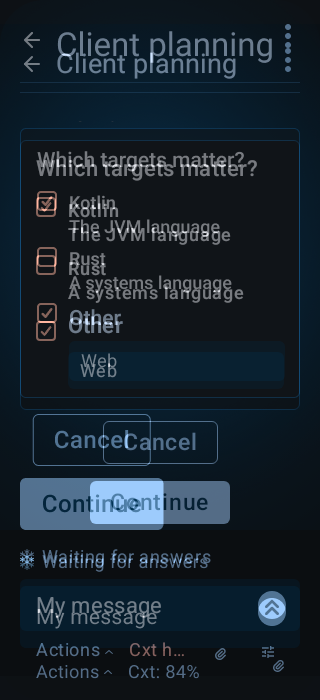
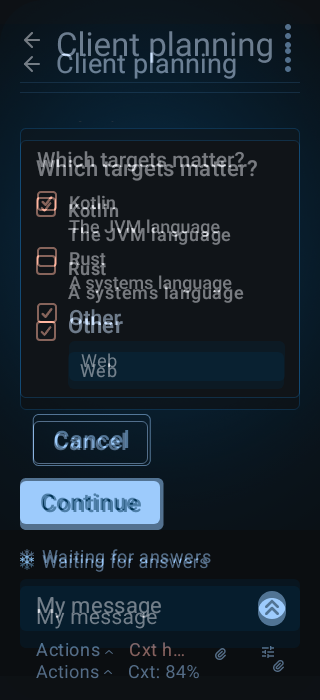
fix(questions): defer the actions reveal past layout; re-capture the question frames (#1484)

Changed region(s): [[0.0625, 0.6, 0.7188, 0.75]]

diff --git a/app/src/main/java/de/pyryco/mobile/ui/conversations/thread/QuestionBatchModal.kt b/app/src/main/java/de/pyryco/mobile/ui/conversations/thread/QuestionBatchModal.kt
@@ -42,6 +42,7 @@ import androidx.compose.runtime.mutableStateOf
 import androidx.compose.runtime.remember
 import androidx.compose.runtime.rememberCoroutineScope
 import androidx.compose.runtime.setValue
+import androidx.compose.runtime.withFrameNanos
 import androidx.compose.ui.Alignment
 import androidx.compose.ui.Modifier
 import androidx.compose.ui.draw.alpha
@@ -312,8 +313,11 @@ internal fun QuestionBlock(
                             val scope = rememberCoroutineScope()
                             var focused by remember { mutableStateOf(false) }
                             val imeBottom = WindowInsets.ime.getBottom(LocalDensity.current)
-                            // The last run sees the settled inset, so every run ends at the same position.
+                            // The last run sees the settled inset, so every run ends at the same position. The effect can
+                            // start while the lazy item is composed inside the list's measure, where a scroll may not run,
+                            // so the scroll waits for the next frame.
                             val reveal: suspend () -> Unit = {
+                                withFrameNanos {}
                                 revealActions()
                                 requester.bringIntoView()
                             }

diff --git a/app/src/androidTest/assets/design-1220/prompts/index.md b/app/src/androidTest/assets/design-1220/prompts/index.md
@@ -10,7 +10,12 @@
   `requireRealSystemBars=true`, density 1.0, fixed dark theme, real 24 px status and navigation bars. Each `.txt`
   records the measured values.
 - **Result:** `prompts-results.xml`, the whole class in one run after the second rework: 6 executed, 0 failures.
-  Every capture here comes from that run.
+  Every capture here comes from that run, except the four `question-*` captures.
+- **#1484 re-capture:** `feature/1484` (merge base `ca50716f`) changed the question actions. The whole class ran
+  again in one run on the same device and arguments: 6 executed, 0 failed, 0 skipped, now in `prompts-results.xml`.
+  The `question-unanswered`, `question-answered`, `question-keyboard` and `question-compact` captures and their
+  comparisons come from that run; `question-answered.png` came out byte-identical. The other captures are kept
+  from the #1433 run.
 
 **How these captures differ from onboarding's.** Both prompts set `FLAG_SECURE` on the activity window while
 they show, which blacks out the harness's `UiAutomation` screenshot. The class draws the decor view into a
@@ -51,13 +56,13 @@ scaling or the app matches the frames.
 | Padding | match: 20 px gutters, 16 px card padding |
 | Spacing | mismatch in the Other row: Figma puts the field 28 px below the "Other" label's top and the radio top-aligned with the label; the app's field sits about 6 px lower and its radio is centred in a 48 dp row, about 10 px below the label. Kotlin to Rust rows match at 56 px; actions 12 px below the card |
 | Typography | mismatch: footer "Cxt high: 84%". Question, option label and description, header and actions match |
-| Colour | mismatch: disabled Continue is near-black with dim text, where Figma fills it blue-grey; footer label in the warning colour |
+| Colour | mismatch: footer label in the warning colour. The disabled Continue matches since #1484: the primary fill and on-primary label at 38 % opacity, as `636:3535` |
 | Borders | match: primary-container card border, outlined Cancel |
 | Radii | match |
 | Icon paths | mismatch: footer tune icon. Header snowflake glyphs, radios and checkboxes match |
 | Component state | match: nothing selected, Continue disabled, "Waiting for answers" |
 
-- **Routed:** #1484 (disabled Continue), #1501 (Other row spacing and radio alignment), #1485 (footer)
+- **Routed:** #1501 (Other row spacing and radio alignment), #1485 (footer). Disabled Continue fixed by #1484
 
 ### Questions · Answers selected — `636:3540`
 
@@ -94,9 +99,9 @@ scaling or the app matches the frames.
 
 | Aspect | Verdict |
 |---|---|
-| Geometry | mismatch: the focused Other field is in view, but Cancel and Continue are half under the composer footer; Figma shows both above "Waiting for answers". The focus scroll offset varies between runs: the first and this run leave them half under, the first rework run hid them fully. Every run covers them |
+| Geometry | match since #1484: at the focus scroll position the focused Other field and both Cancel and Continue are fully in view, the actions' bottom at the stream's bottom edge above "Waiting for answers", as Figma. The focus scroll places the actions first, so the position no longer depends on the IME animation; the test asserts the field and both actions inside the message region |
 | Padding | match |
-| Spacing | mismatch: the actions have no gap above the footer (see Geometry); the Other row as Unanswered |
+| Spacing | mismatch: the Other row as Unanswered. The actions sit 4 px above the stream's edge, from the batch's item gutter |
 | Typography | mismatch: footer "Cxt high: 84%" |
 | Colour | mismatch: footer warning colour |
 | Borders | match |
@@ -104,9 +109,9 @@ scaling or the app matches the frames.
 | Icon paths | mismatch: footer tune icon |
 | Component state | match: Other focused with "Web" (the caret blinks and is in its off phase in this capture); the draft is kept |
 
-- **Clipping and reach:** Cancel and Continue are covered by the footer at the focus scroll position. Both
-  scroll into view and display with the keyboard still open (`reachable` in the test). No control is unreachable.
-- **Routed:** #1484 (actions under the footer), #1501 (Other row), #1485 (footer)
+- **Clipping and reach:** nothing is covered at the focus scroll position (`assertAboveComposer` in the test,
+  without a scroll of its own). Both actions also scroll into view with the keyboard still open (`reachable`).
+- **Routed:** #1501 (Other row), #1485 (footer). Actions under the footer fixed by #1484
 
 ### Questions · Compact text at 150% — `636:4066`
 
@@ -118,7 +123,7 @@ scaling or the app matches the frames.
 
 | Aspect | Verdict |
 |---|---|
-| Geometry | mismatch: Cancel and Continue stack, but centred, where Figma stacks them at the card's start edge. Figma's Cancel and Continue are 52 px tall (118 and 143.5 px wide); the app's are about 42 px |
+| Geometry | mismatch: Figma's Cancel and Continue are 52 px tall (118 and 143.5 px wide); the app's are about 42 px. Since #1484 the stacked pair sits at the card's start edge with Cancel centred over Continue, as `636:4325` |
 | Padding | match |
 | Spacing | mismatch: the Other row, as Unanswered |
 | Typography | mismatch: the top-bar title is about 26 px against Figma's 34 px (see "Top-bar title at 150 %"); the action labels are smaller than the frame's linear 150 %; the footer reads "Cxt h…". Every label wraps |
@@ -130,7 +135,7 @@ scaling or the app matches the frames.
 
 - **Clipping and reach:** the footer's context label truncates to "Cxt h…". The title, both questions, Cancel
   and Continue each scroll into view and display.
-- **Routed:** #1484 (stacked action alignment), #1501 (button heights and their smaller labels, the top-bar title, Other row), #1485 (footer, truncation)
+- **Routed:** #1501 (button heights and their smaller labels, the top-bar title, Other row), #1485 (footer, truncation)
 
 ### Permission · Safe default — `639:2242`
 

diff --git a/docs/specs/architecture/1484-question-actions-frames.md b/docs/specs/architecture/1484-question-actions-frames.md
@@ -91,10 +91,24 @@ None new; scroll refusal is above.
 ## Open Questions
 
 - Whether `scrollToItem` before the field's `bringIntoView()` is stable across the IME animation on the
-  device. Resolve from three keyboard-frame runs.
+  device. Resolved: see Revisions.
 
 ## Documentation handoff
 
 - `docs/knowledge/features/question-batch-modal.md` § Rendering — pending: the focus scroll now places the
   actions item at the stream's bottom edge before bringing the field into view; disabled Continue is the
   enabled colours at 38 % group alpha; the stacked pair is start-aligned with Cancel centred over Continue.
+
+## Revisions
+
+### 2026-10-02 — the reveal waits a frame before scrolling
+
+- **What changed.** The reveal runs `withFrameNanos {}` before `revealActions()`.
+- **What drove it.** The first device run of `questionKeyboardFrame` crashed with "performMeasureAndLayout called
+  during measure layout": when a focused question's lazy item is composed inside the list's measure pass, its
+  `LaunchedEffect` starts there, and `LazyListState.scrollToItem` forces a remeasure, which is illegal inside
+  measure. The field's own `bringIntoView()` never forced a remeasure, so the old code did not hit this.
+- **New contract.** The reveal scrolls on the next frame, outside layout, then brings the field into view. The
+  Open Question is resolved: the next full-class run passed except for the harness's known 332 px keyboard
+  (`the test IME's keyboard is open`, before the reveal is asserted), and the following full-class run passed
+  6 of 6 with the field and both actions inside the message region.
